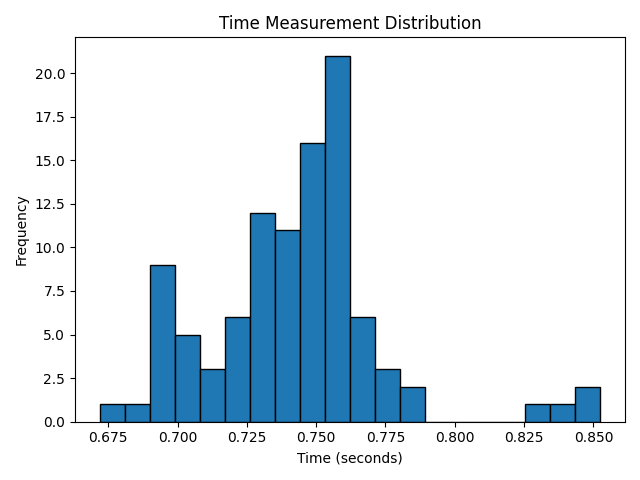
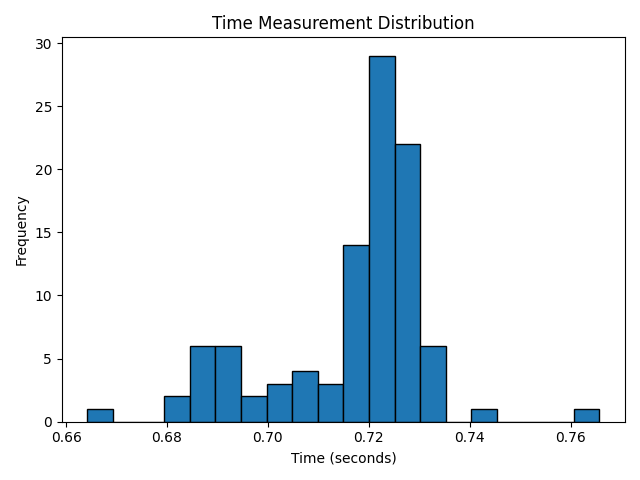
Results after switching -O3 on

diff --git a/python/plot_bifurcation_diagram.py b/python/plot_bifurcation_diagram.py
@@ -33,12 +33,12 @@ def plot_bifurcation_diagram(filename, args):
         extent=[args.r_min, args.r_max, args.x_min, args.x_max],
 
         #range for the gpu version
-        vmax=50000000,
-        vmin=1000,
+        #vmax=50000000,
+        #vmin=1000,
 
         #for the cpu version
-        #vmax=3000000,
-        #vmin=10000,
+        vmax=3000000,
+        vmin=10000,
         interpolation="bicubic",
     )
 
